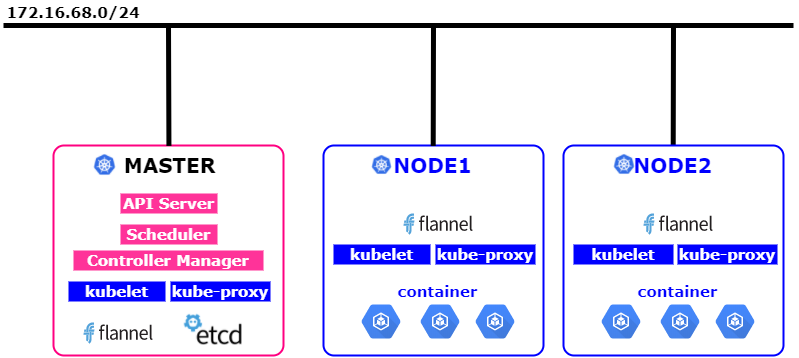
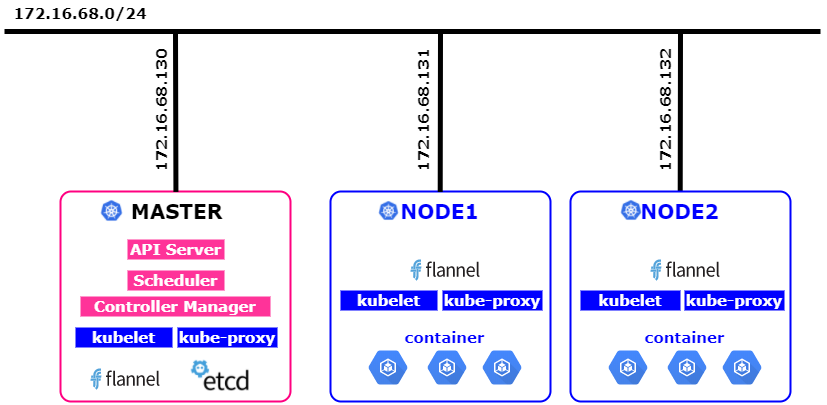
cài đặt K8S
cài đặt K8S

Changed region(s): [[0.0, 0.0, 1.0, 1.0]]

diff --git a/docs/kubernetes-5min/02.Caidat-Kubernetes.md b/docs/kubernetes-5min/02.Caidat-Kubernetes.md
@@ -13,8 +13,11 @@
 
 - Nếu sử dụng file online thì vào [link  này](https://www.draw.io/#G1NmTeK-k590hew0GikQcl_TNiwO1nDjxK)
 
-#### IP Planning
- 
+#### IP Planning:
+
+![ip-planning](../../images/ip-planning.png)
+
+- Lưu ý: Mặc dù trong bảng trên ta có 03 NICs cho mỗi máy nhưng trong các bước hướng dẫn này ta chỉ cần sử dụng interface có dải 172.16.68.0/24. Các dải còn lại là do hạ tầng của tôi và tôi chuẩn bị sẵn để cho các mục tiêu khác. Do vậy để làm theo LAB này bạn chỉ mỗi máy có 01 NIC là được. Hãy thay lại IP cho phù hợp với môi trường của bạn nhé.
  
 ### Bước chuẩn bị
 
